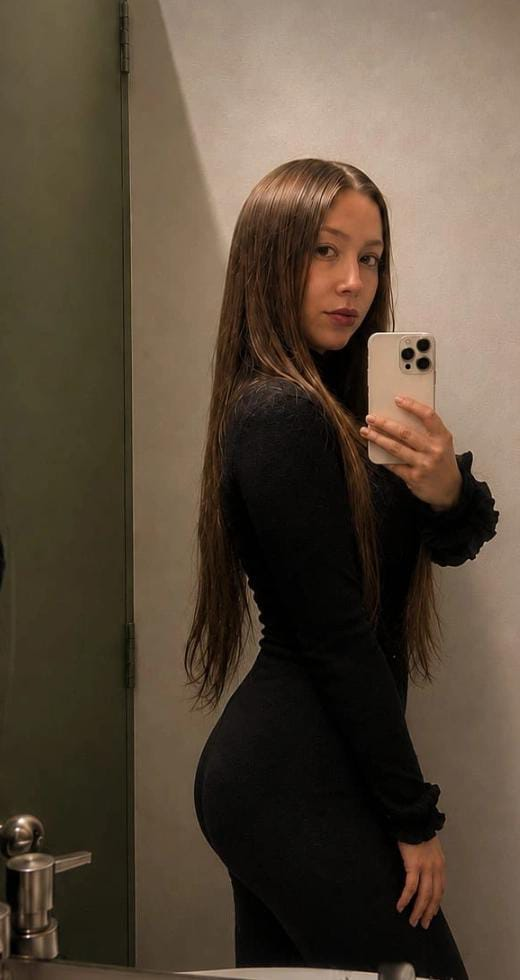
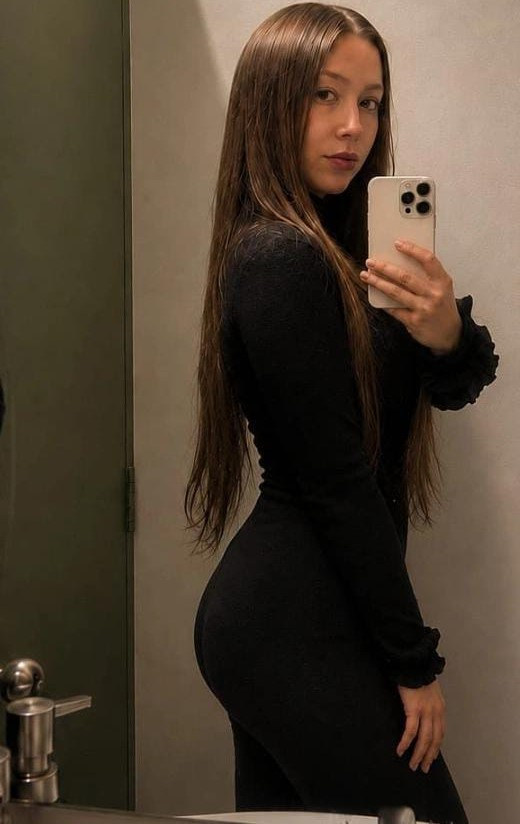
Actualización de la página

diff --git a/app/page.tsx b/app/page.tsx
@@ -1,6 +1,6 @@
 'use client';
 
-import React, { useState } from 'react';
+import React, { useState, useEffect } from 'react';
 
 interface Masajista {
   id: string;
@@ -89,8 +89,39 @@ export default function TantraProvidencia() {
   const [selectedMasajista, setSelectedMasajista] = useState<Masajista | null>(null);
   const [showMasajistas, setShowMasajistas] = useState<boolean>(false);
 
+  // Bloqueo de zoom por gestos táctiles (Pinch-to-zoom y Gestures)
+  useEffect(() => {
+    const handleTouchMove = (e: TouchEvent) => {
+      if (e.touches.length > 1) {
+        e.preventDefault();
+      }
+    };
+
+    const handleGestureStart = (e: Event) => {
+      e.preventDefault();
+    };
+
+    const handleWheel = (e: WheelEvent) => {
+      if (e.ctrlKey) {
+        e.preventDefault();
+      }
+    };
+
+    document.addEventListener('touchstart', handleTouchMove, { passive: false });
+    document.addEventListener('touchmove', handleTouchMove, { passive: false });
+    document.addEventListener('gesturestart', handleGestureStart, { passive: false });
+    document.addEventListener('wheel', handleWheel, { passive: false });
+
+    return () => {
+      document.removeEventListener('touchstart', handleTouchMove);
+      document.removeEventListener('touchmove', handleTouchMove);
+      document.removeEventListener('gesturestart', handleGestureStart);
+      document.removeEventListener('wheel', handleWheel);
+    };
+  }, []);
+
   return (
-    <div className="min-h-screen bg-[#070708] text-[#E2E2E6] font-sans selection:bg-[#C5A059]/30 selection:text-[#F3EFE0] overflow-x-hidden relative">
+    <div className="min-h-screen bg-[#070708] text-[#E2E2E6] font-sans selection:bg-[#C5A059]/30 selection:text-[#F3EFE0] overflow-x-hidden relative select-none touch-manipulation">
       
       {/* Botón flotante de WhatsApp */}
       <a
@@ -117,7 +148,9 @@ export default function TantraProvidencia() {
           <img
             src={SPA_BACKGROUND_IMAGE}
             alt="Centro de Spa Tranquilo con Camilla y Velas"
-            className="w-full h-full object-cover object-center opacity-30 filter brightness-90 contrast-110"
+            className="w-full h-full object-cover object-center opacity-30 filter brightness-90 contrast-110 pointer-events-none select-none"
+            onContextMenu={(e) => e.preventDefault()}
+            onDragStart={(e) => e.preventDefault()}
           />
           <div className="absolute inset-0 bg-gradient-to-b from-[#070708]/90 via-[#070708]/65 to-[#070708]"></div>
         </div>
@@ -258,7 +291,9 @@ export default function TantraProvidencia() {
                     <img
                       src={masajista.coverImage}
                       alt={masajista.name}
-                      className="w-full h-full object-contain object-center group-hover:scale-105 transition-transform duration-500"
+                      className="w-full h-full object-contain object-center group-hover:scale-105 transition-transform duration-500 pointer-events-none select-none"
+                      onContextMenu={(e) => e.preventDefault()}
+                      onDragStart={(e) => e.preventDefault()}
                     />
                     <div className="absolute inset-0 bg-gradient-to-t from-zinc-950 via-transparent to-transparent opacity-80 pointer-events-none"></div>
                     
@@ -300,7 +335,9 @@ export default function TantraProvidencia() {
                     <img
                       src={photo}
                       alt={`Foto ${idx + 1} de ${selectedMasajista.name}`}
-                      className="w-full h-full object-contain"
+                      className="w-full h-full object-contain pointer-events-none select-none"
+                      onContextMenu={(e) => e.preventDefault()}
+                      onDragStart={(e) => e.preventDefault()}
                     />
                   </div>
                 ))}
